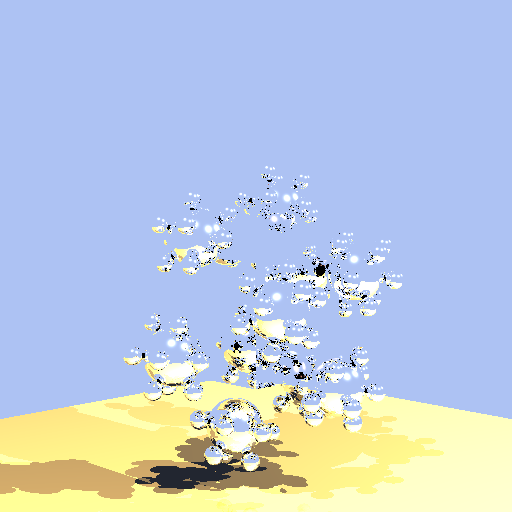
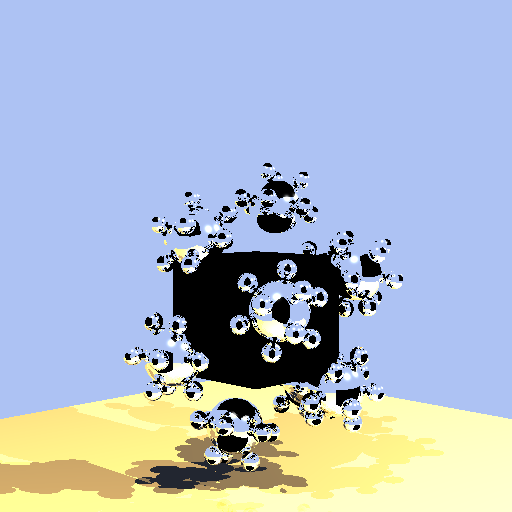
black box

Changed region(s): [[0.25, 0.3125, 0.7812, 0.9375], [0.2812, 0.4062, 0.3125, 0.4375]]

diff --git a/P3D_Template/P3D_Template/scene.cpp b/P3D_Template/P3D_Template/scene.cpp
@@ -245,8 +245,8 @@ bool aaBox::intercepts(Ray& ray, float& t)
 		tL = tz_max;
 		face_out = (c >= 0.0) ? Vector(0, 0, 1) : Vector(0, 0, -1);
 	}
-	cout << tE << " " << tL << "\n";
-	if (tE < tL && tL > 0) {
+	
+	if (tE < tL) {
 		if (tE > 0) {
 			t = tE;
 			Normal = face_in;
@@ -254,6 +254,7 @@ bool aaBox::intercepts(Ray& ray, float& t)
 		else {
 			t = tL;
 			Normal = face_out;
+
 		}
 		return true;
 	}

diff --git a/P3D_Template/P3D_Template/main.cpp b/P3D_Template/P3D_Template/main.cpp
@@ -52,7 +52,7 @@ long myTime, timebase = 0, frame = 0;
 char s[32];
 
 //Enable OpenGL drawing.  
-bool drawModeEnabled = false;
+bool drawModeEnabled = true;
 
 bool P3F_scene = true; //choose between P3F scene or a built-in random scene
 
